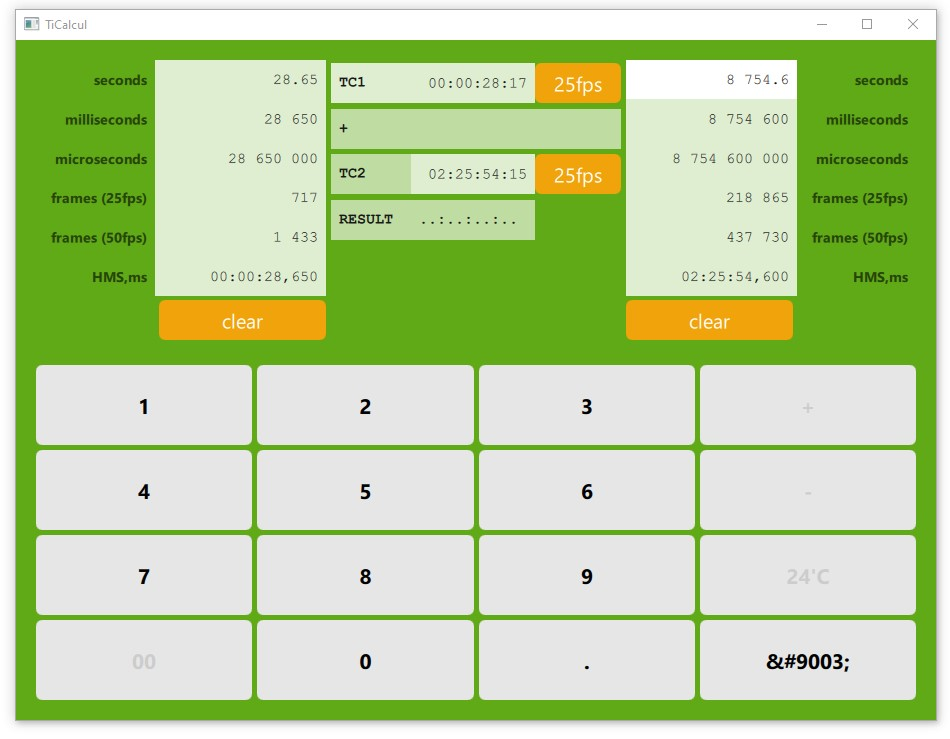
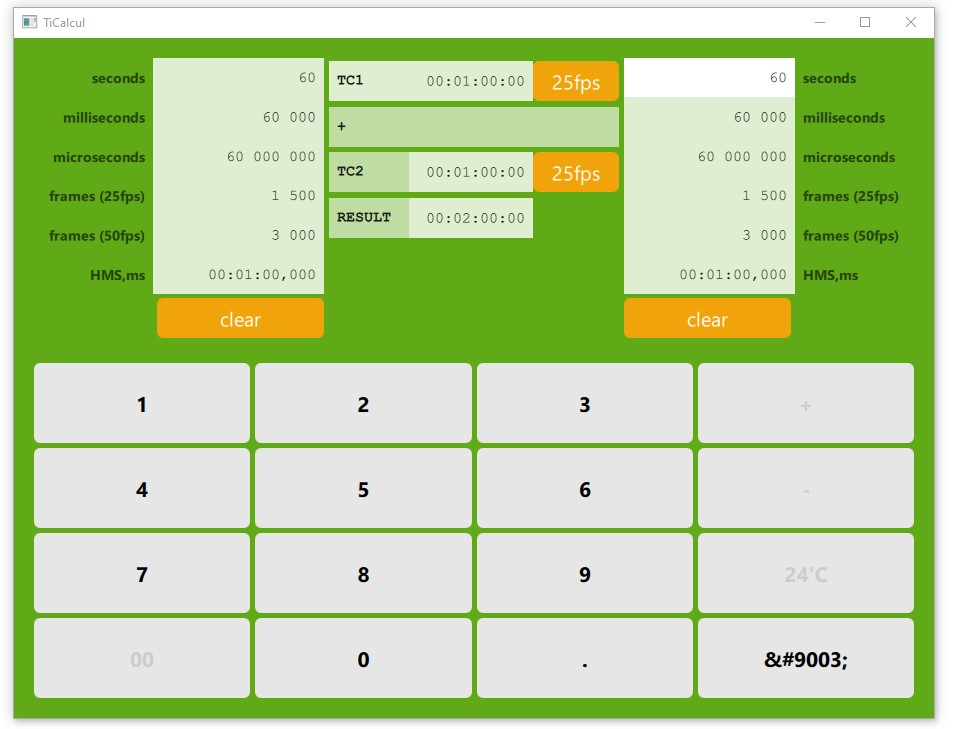
Le résultat est associé à un opérande

diff --git a/Qml/Vues/RightFrameForm.ui.qml b/Qml/Vues/RightFrameForm.ui.qml
@@ -24,6 +24,7 @@ Item {
         }
         FieldLabel {
             text: "seconds"
+            horizontalAlignment: Text.AlignLeft
             Layout.fillHeight: true
             Layout.fillWidth: true
         }
@@ -36,6 +37,7 @@ Item {
         }
         FieldLabel {
             text: "milliseconds"
+            horizontalAlignment: Text.AlignLeft
             Layout.fillHeight: true
             Layout.fillWidth: true
         }
@@ -48,6 +50,7 @@ Item {
         }
         FieldLabel {
             text: "microseconds"
+            horizontalAlignment: Text.AlignLeft
             Layout.fillHeight: true
             Layout.fillWidth: true
         }
@@ -60,6 +63,7 @@ Item {
         }
         FieldLabel {
             text: "frames (25fps)"
+            horizontalAlignment: Text.AlignLeft
             Layout.fillHeight: true
             Layout.fillWidth: true
         }
@@ -72,25 +76,10 @@ Item {
         }
         FieldLabel {
             text: "frames (50fps)"
+            horizontalAlignment: Text.AlignLeft
             Layout.fillHeight: true
             Layout.fillWidth: true
         }
-        // ---------------------------------------
-
-
-        /*
-        FieldInput {
-            //text: "HH:MM:SS:II"
-            afficheur: TC1_aff_4
-            Layout.fillHeight: true
-            Layout.fillWidth: true
-        }
-        FieldLabel {
-            text: "HMSI (25fps)"
-            Layout.fillHeight: true
-            Layout.fillWidth: true
-        }
-*/
         // ---------------------------------------
         FieldInput {
             //text: "DD + HH:MM:SS:II"
@@ -100,6 +89,7 @@ Item {
         }
         FieldLabel {
             text: "HMS,ms"
+            horizontalAlignment: Text.AlignLeft
             Layout.fillHeight: true
             Layout.fillWidth: true
         }
@@ -115,6 +105,8 @@ Item {
         }
         Item {
             id: emptySpace
+            Layout.fillHeight: false
+            Layout.fillWidth: true
         }
     }
 }

diff --git a/Qml/Vues/LeftFrameForm.ui.qml b/Qml/Vues/LeftFrameForm.ui.qml
@@ -18,7 +18,6 @@ Item {
 
         FieldLabel {
             text: "seconds"
-            //justify: Text.AlignRight
             Layout.fillHeight: true
             Layout.fillWidth: true
         }
@@ -31,7 +30,6 @@ Item {
         // ---------------------------------------
         FieldLabel {
             text: "milliseconds"
-            //justify: Text.AlignRight
             Layout.fillHeight: true
             Layout.fillWidth: true
         }
@@ -81,23 +79,6 @@ Item {
             Layout.fillWidth: true
         }
         // ---------------------------------------
-
-
-        /*
-        FieldLabel {
-            text: "HMSI (25fps)"
-            justify: Text.AlignRight
-            Layout.fillHeight: true
-            Layout.fillWidth: true
-        }
-        FieldInput {
-            //text: "HH:MM:SS:II"
-            afficheur: TC1_aff_4
-            Layout.fillHeight: true
-            Layout.fillWidth: true
-        }
-*/
-        // ---------------------------------------
         FieldLabel {
             text: "HMS,ms"
             //justify: Text.AlignRight
@@ -116,8 +97,8 @@ Item {
             // Layout.topMargin: 4
             // Layout.rightMargin: 4
             // Layout.leftMargin: 4
-            // Layout.fillHeight: false
-            // Layout.fillWidth: true
+            Layout.fillHeight: false
+            Layout.fillWidth: true
         }
         TiButton {
             id: btClear

diff --git a/Qml/Vues/CalculFrameForm.ui.qml b/Qml/Vues/CalculFrameForm.ui.qml
@@ -54,6 +54,7 @@ Item {
             Layout.rowSpan: 1
             Layout.columnSpan: 3
         }
+        // TODO : ajouter un bouton swap
 
         // ------------------------------------------------------------
         // 2eme ligne
@@ -88,9 +89,10 @@ Item {
             Layout.fillHeight: false
             Layout.fillWidth: false
         }
-        FieldResult {
+        FieldInput {
             id: result
             text: "..:..:..:.."
+            afficheur: RESULT_aff_4
             Layout.fillHeight: false
             Layout.fillWidth: true
         }

diff --git a/Qml/Controllers/CalculFrame.qml b/Qml/Controllers/CalculFrame.qml
@@ -13,6 +13,8 @@ CalculFrameForm {
     }
 
     tc2.onClicked: {
-        console.log("TiButton btSwap clicked ! ")
+        console.log("TiButton btFramerate TC2 clicked ! ")
     }
+
+    // TODO : Ajouter un bouton SWAP au nivea de la deuxième ligne
 }

diff --git a/main.cpp b/main.cpp
@@ -26,6 +26,7 @@ int main(int argc, char* argv[])
     // --------------------------------------
     Operande operande_tc1("TC1");
     Operande operande_tc2("TC2");
+    Operande operande_res("RESULT");
 
     // --------------------------------------
     // Initialisation du moteur:
@@ -38,8 +39,10 @@ int main(int argc, char* argv[])
     // ------------------------------------------------------------
     context->setContextProperty("operandeTC1", &operande_tc1);
     context->setContextProperty("operandeTC2", &operande_tc2);
+    context->setContextProperty("operandeRES", &operande_res);
     operande_tc1.registerContext(context);
     operande_tc2.registerContext(context);
+    operande_res.registerContext(context);
 
     // ------------------------------------------------------------
     // On ajoute le type Afficheur au contexte QML
@@ -57,6 +60,7 @@ int main(int argc, char* argv[])
 
     operande_tc1.setValeurPivot(28650000);
     operande_tc2.setValeurPivot(87545412880);
+    operande_res.setValeurPivot(120000000);
 
     // --------------------------------------
     // Démarrage du moteur.

diff --git a/Sources/operande.h b/Sources/operande.h
@@ -17,8 +17,7 @@ class Operande : public QObject
     Q_OBJECT
 
 public:
-    Operande(QString name, QObject *parent = nullptr);
-
+    explicit Operande(QString name, QObject *parent = nullptr);
     qint64 valeurPivot() const;
     void registerContext(QQmlContext* context);
     Q_INVOKABLE void clear();
